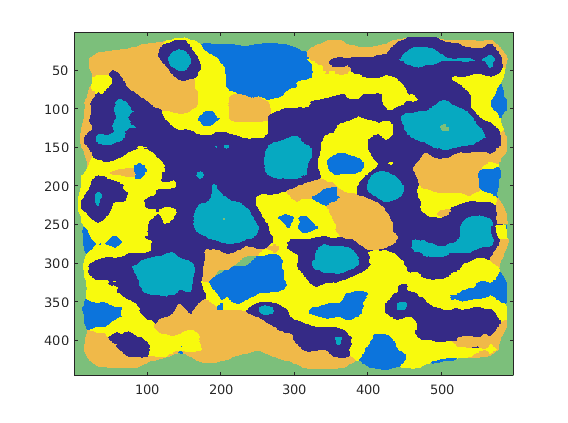
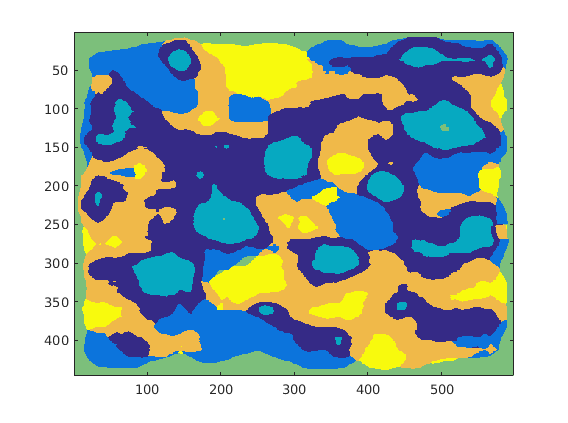
progress

diff --git a/compareSegmentations.m b/compareSegmentations.m
@@ -10,11 +10,13 @@ function [colorLabelIm, textureLabelIm] = compareSegmentations(origIm, ...
   npixel = h * w;
   
   % Color segmentation:
-  [~, meanFeats] = kmeans(reshape(origIm, npixel, c), numColorRegions);
+  I = reshape(origIm, npixel, c);
+  [~, meanFeats] = kmeans(I, numColorRegions, 'MaxIter', 1000);
   colorLabelIm = quantizeFeats(origIm, meanFeats);
   
   % Texture segmentation:
   featIm = extractTextonHists(rgb2gray(origIm), bank, textons, winSize);
-  [~, meanFeats] = kmeans(reshape(featIm, npixel, k), numTextureRegions);   
+  J = reshape(featIm, npixel, k);
+  [~, meanFeats] = kmeans(J, numTextureRegions, 'MaxIter', 1000);   
   textureLabelIm = quantizeFeats(featIm, meanFeats);
 return
